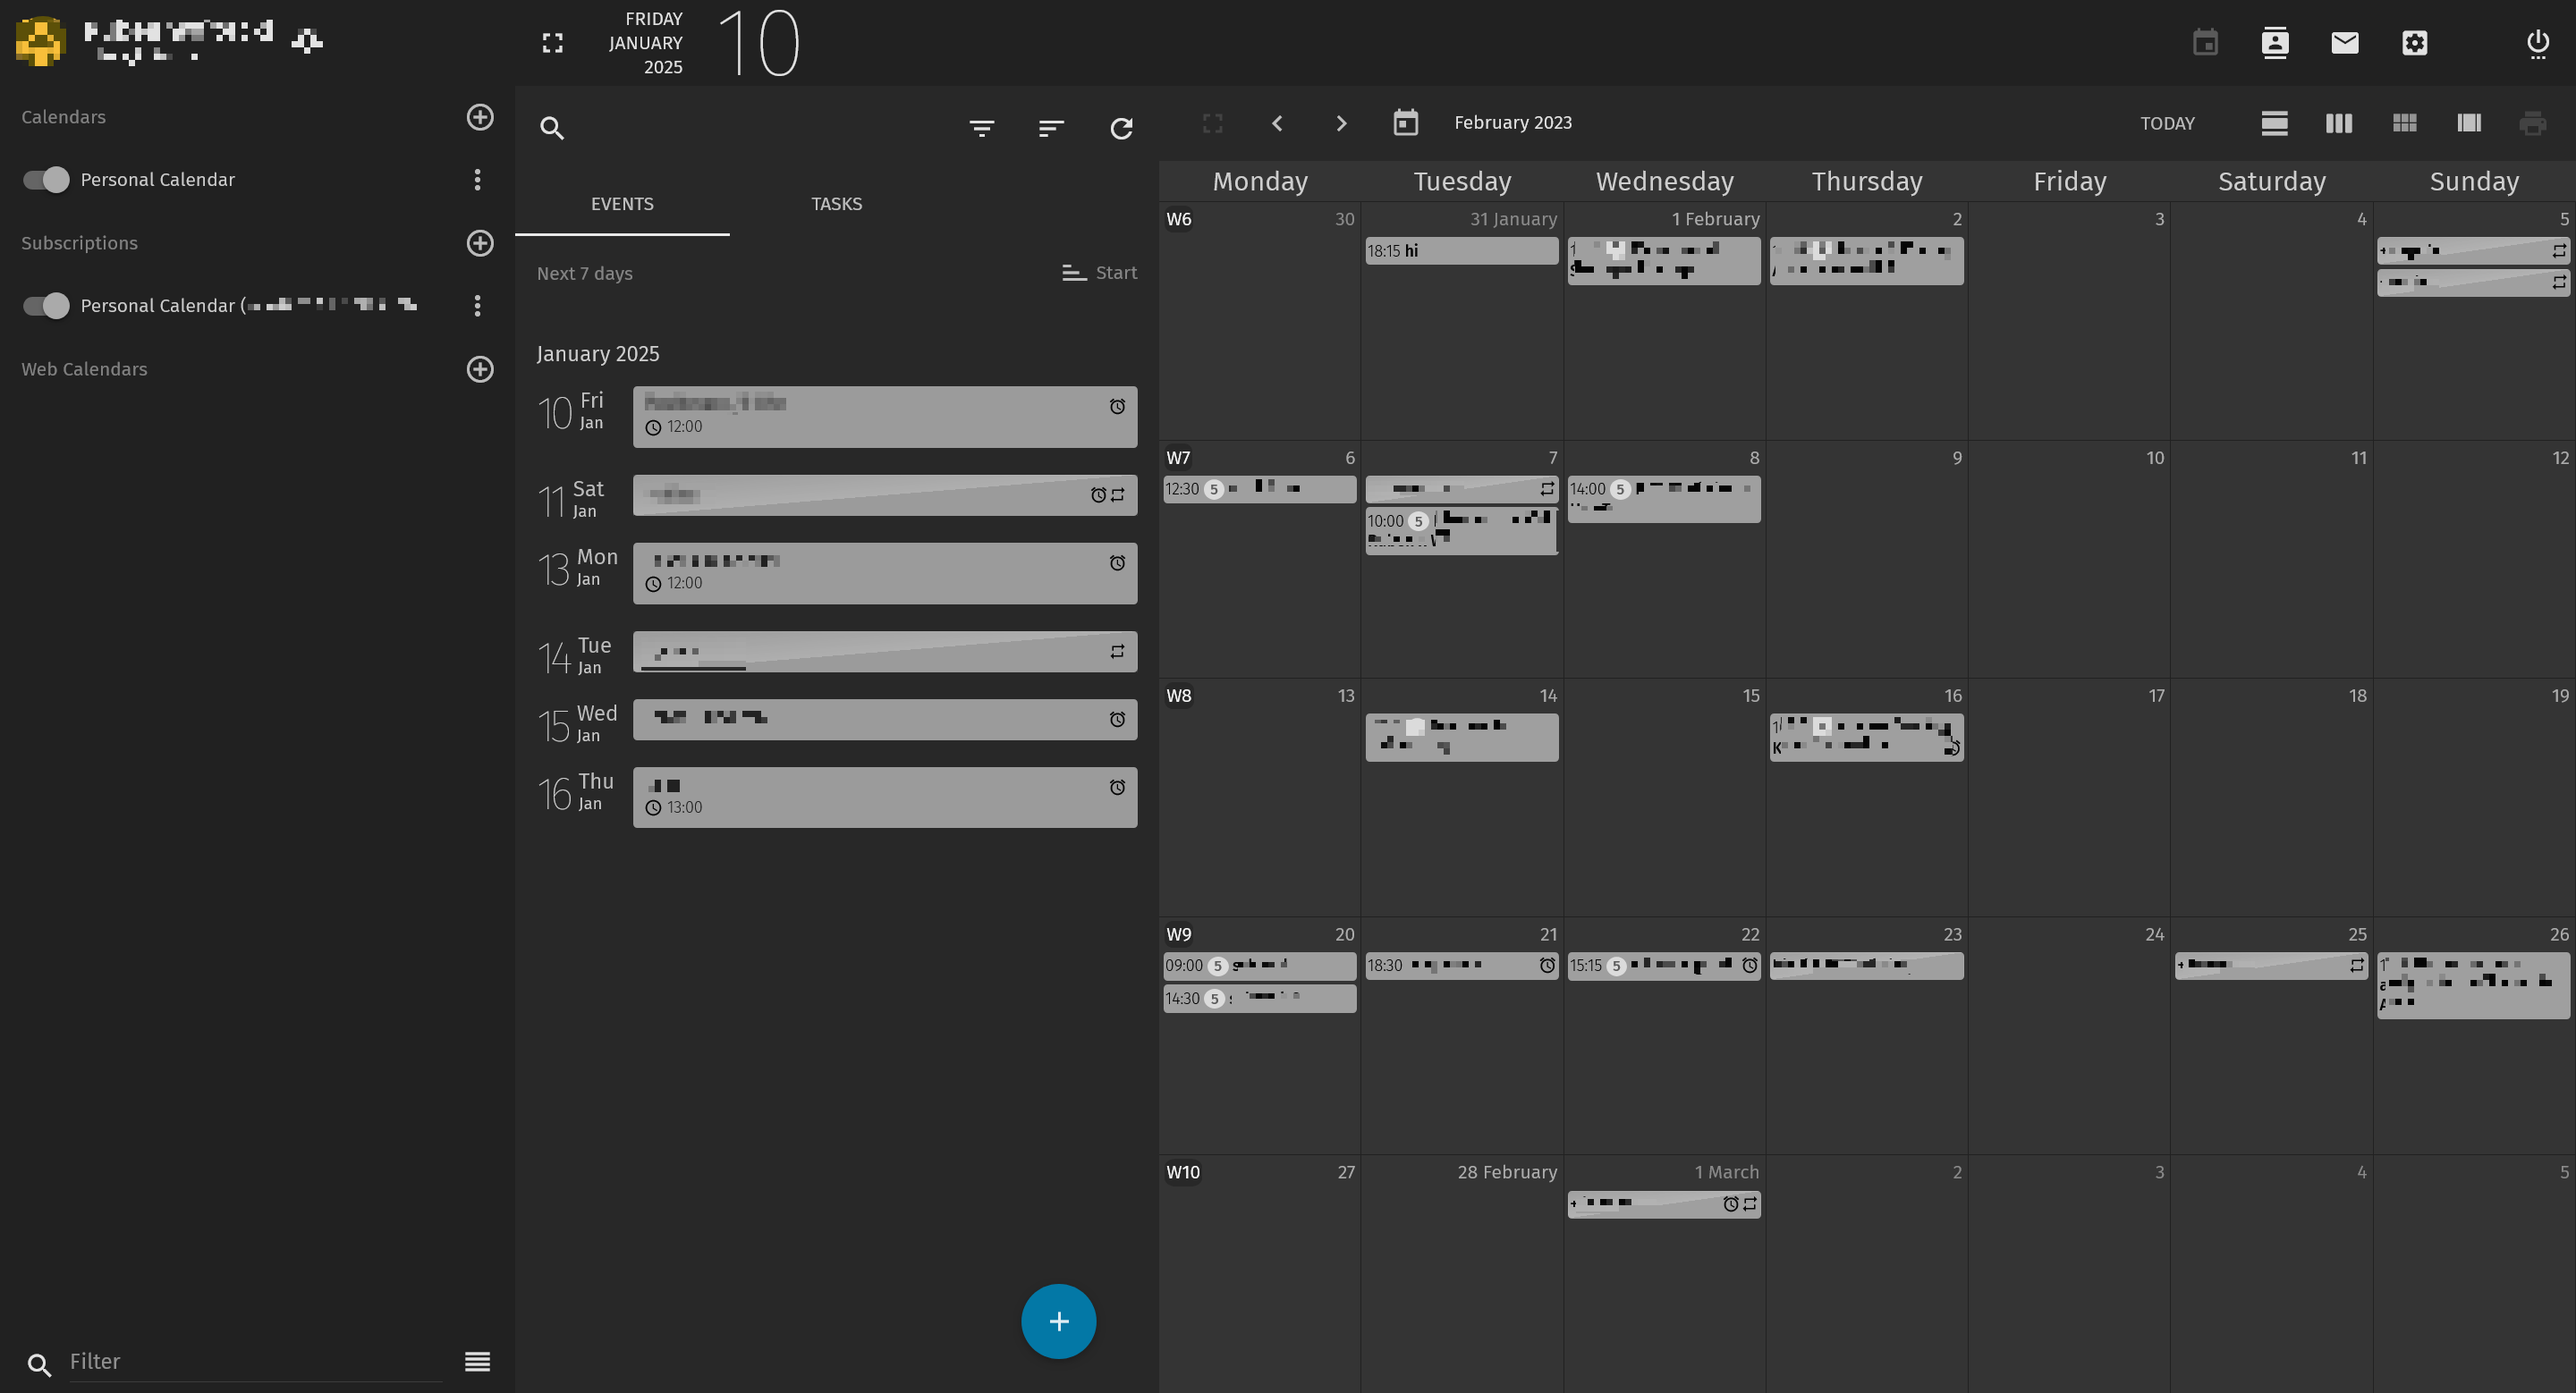
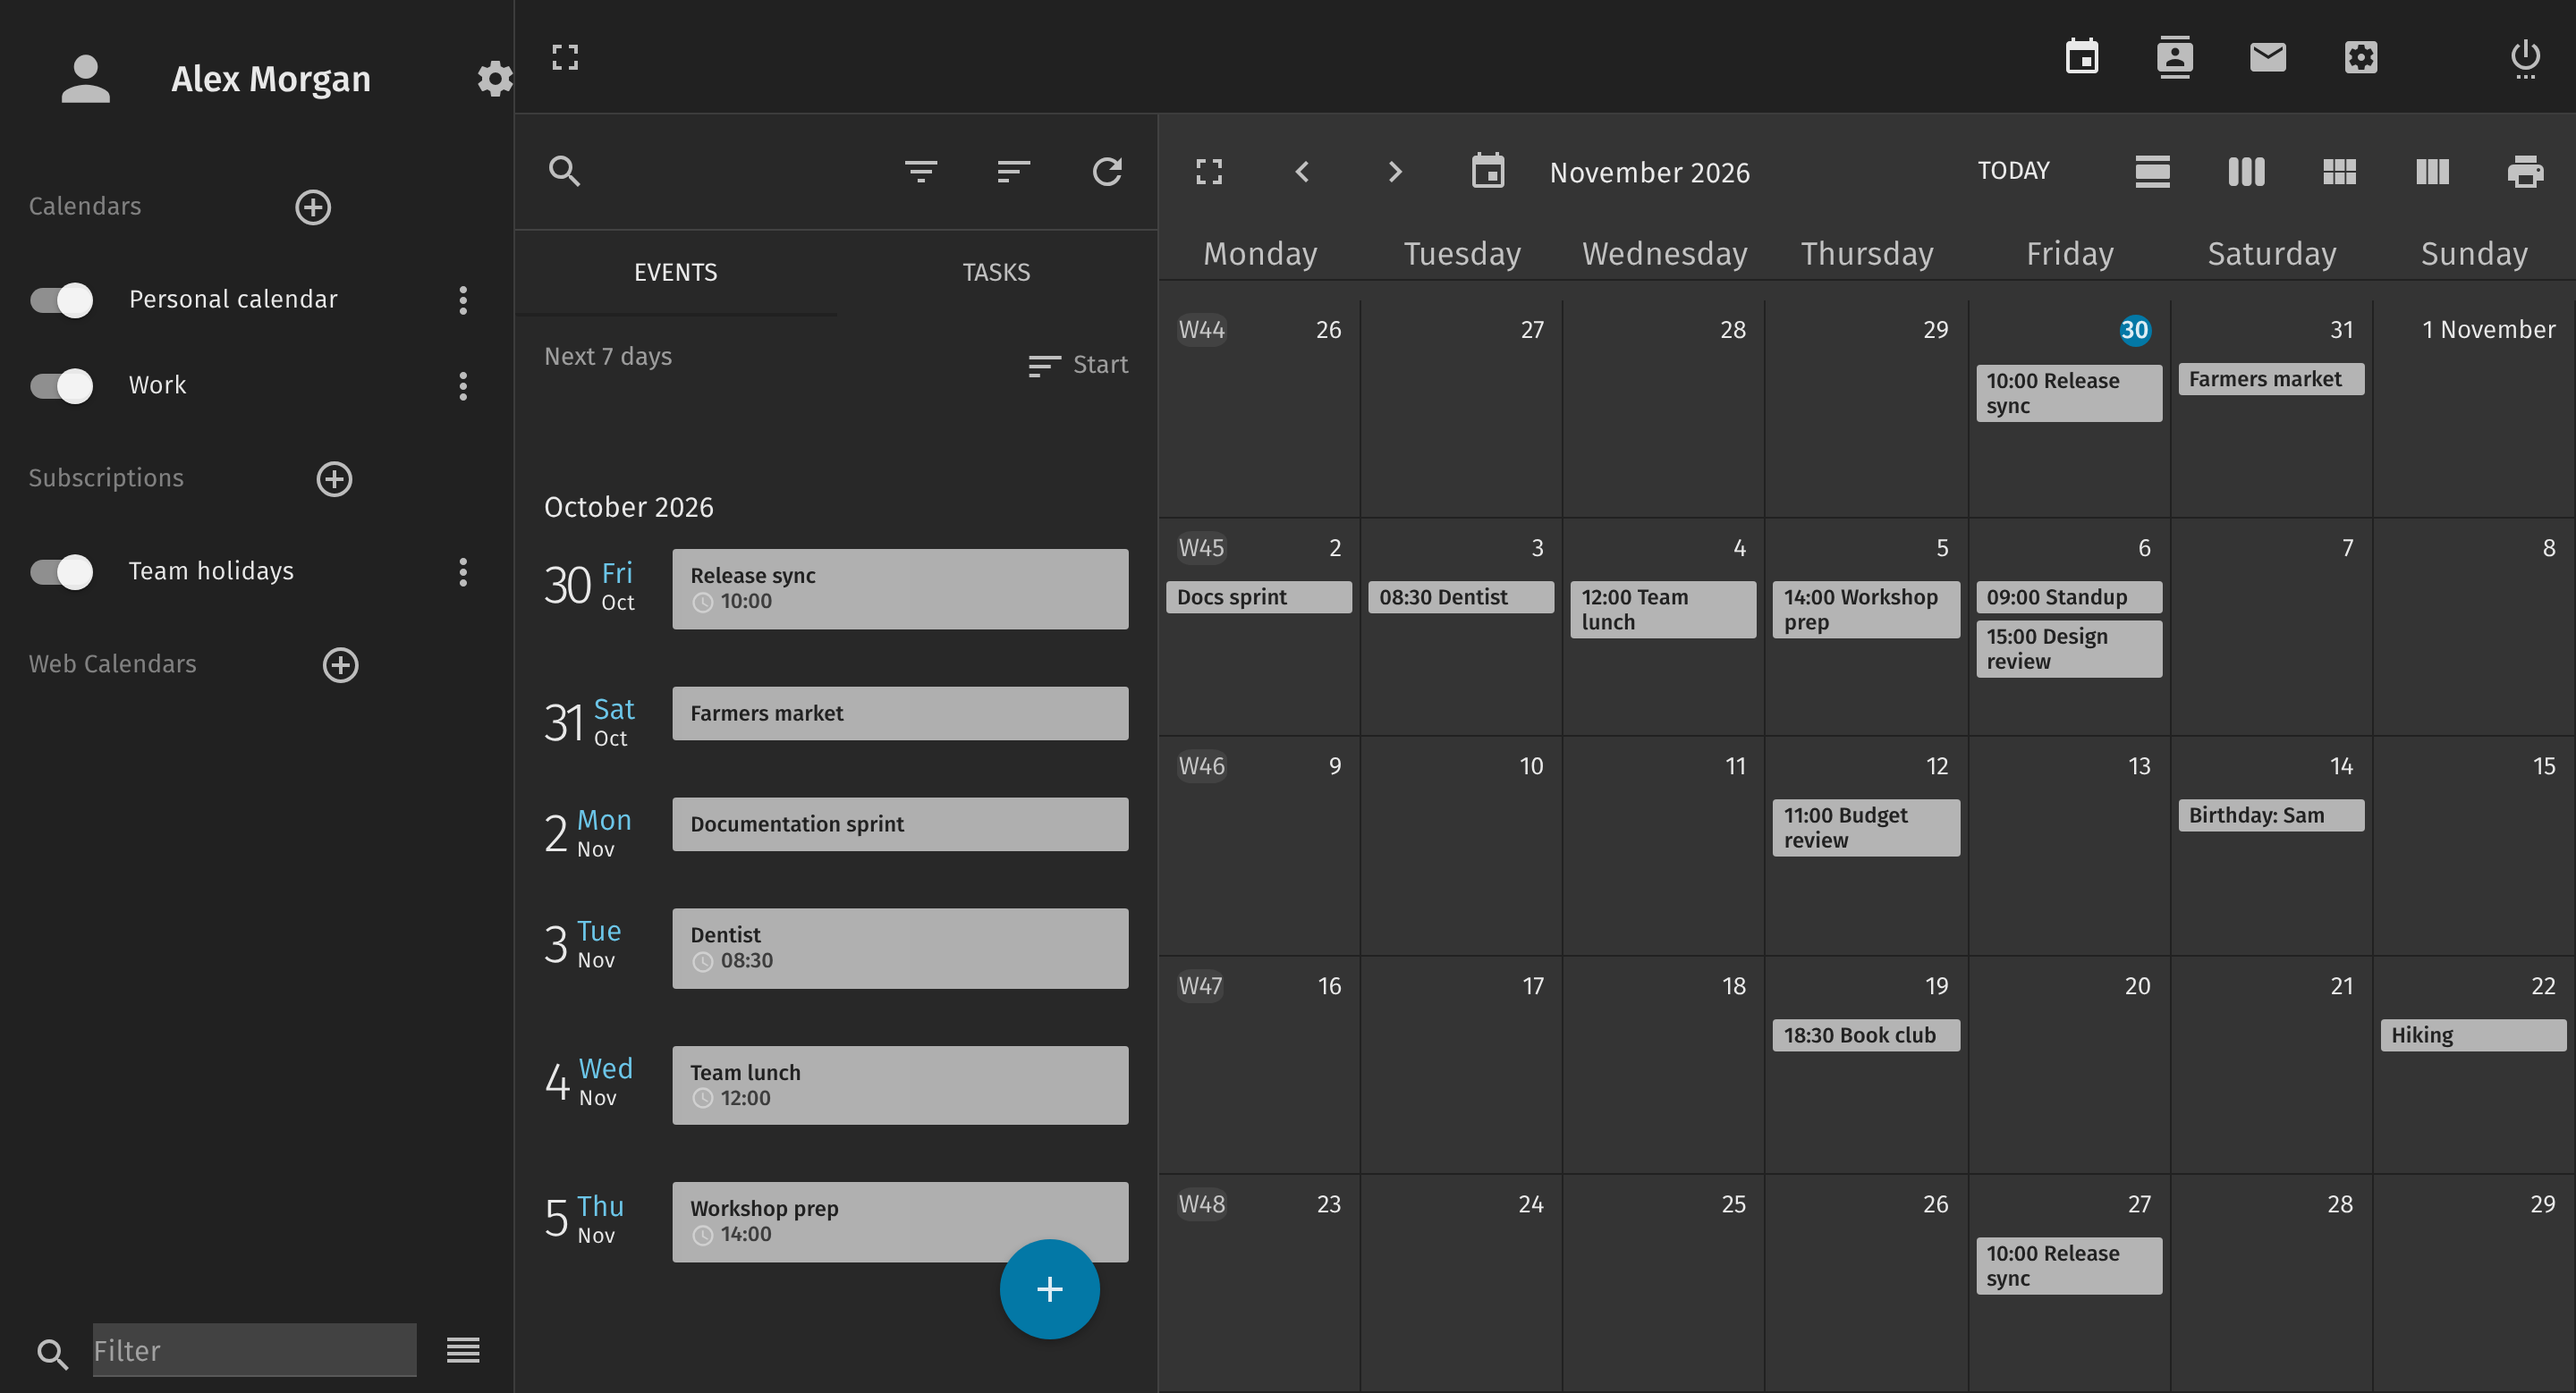
Mockup screenshots, fix active tab and switch colours
Replace the README screenshots with mockups of the revised theme that use
made-up names and messages. Fix two colours the mockups showed: the
active tab label and checked switches took the background colour from
the generated theme (both themes for the tab, custom-theme.css for the
switch).

Claude-Session: https://claude.ai/code/session_01X2azFrxSvpJfFncUYmPW3M

diff --git a/custom-theme.css b/custom-theme.css
@@ -751,13 +751,23 @@ body md-tabs .md-tab {
 }
 
 body md-tabs .md-tab.md-active,
-body md-tabs .md-tab.md-focused {
-	color: var(--dark-ink);
+body md-tabs .md-tab.md-focused,
+body md-tabs .md-tab.md-active md-icon {
+	color: var(--dark-ink) !important;
 }
 
 body md-tabs md-ink-bar {
 	background-color: var(--dark-control);
 	color: var(--dark-control);
+}
+
+/* Switches: white knob on a grey track when on */
+body md-switch.md-checked:not([disabled]) .md-thumb {
+	background-color: var(--dark-control) !important;
+}
+
+body md-switch.md-checked:not([disabled]) .md-bar {
+	background-color: rgba(254,254,254,0.5) !important;
 }
 
 body md-chips .sg-chip-progress.ng-hide,

diff --git a/v2-theme.css b/v2-theme.css
@@ -1040,8 +1040,9 @@ body md-tabs .md-tab {
 }
 
 body md-tabs .md-tab.md-active,
-body md-tabs .md-tab.md-focused {
-	color: var(--v2-ink);
+body md-tabs .md-tab.md-focused,
+body md-tabs .md-tab.md-active md-icon {
+	color: var(--v2-ink) !important;
 }
 
 body md-tabs md-ink-bar {

diff --git a/README.md b/README.md
@@ -7,6 +7,8 @@ There might be visual bugs.
 It is built for SOGo 5.12 (checked against 5.12.12) on mailcow-dockerized, but should work on any installation. The side navigation and top bar are the darkest, the message list is a step lighter and the reading pane lighter again; the date in the top bar and the address under your name are hidden.
 
 ## Screenshots
+Mockups with made-up names and messages.
+
 ![Inbox](inbox1.png "Inbox")
 ![New email](inbox2.png "New email")
 ![Calendar](calendar.png "Calendar")
